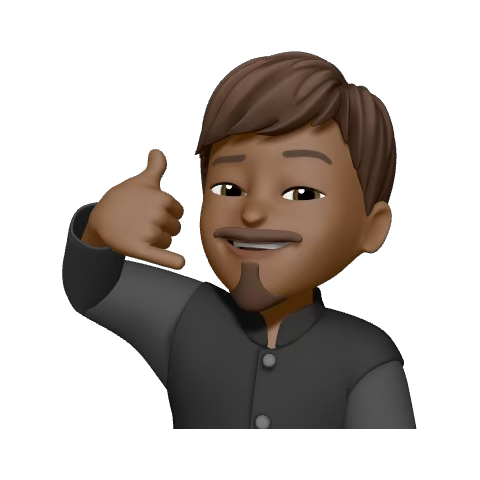
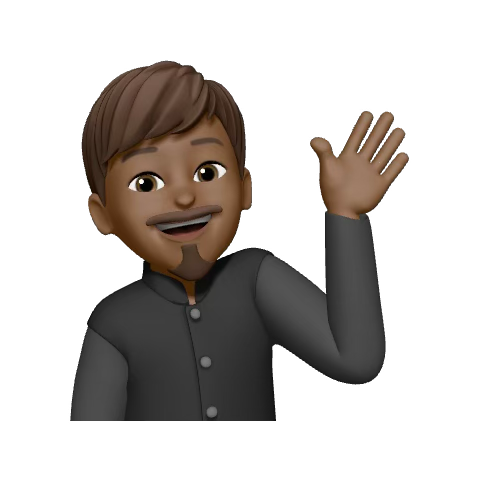
Team Page Update
- added deep and bhavi team page pictures

diff --git a/resdex/src/pages/Team.js b/resdex/src/pages/Team.js
@@ -9,6 +9,8 @@ import kush from "../images/kushceo.png";
 import fenil from "../images/fenilceo.png";
 import jay from "../images/jayceo.png";
 import darsh from "../images/darshceo.png";
+import bhavi from "../images/bhaviceo.png";
+import deep from "../images/deepceo.png";
 
 const Team = () => {
   // Use the custom animation hook
@@ -46,7 +48,7 @@ const Team = () => {
           bio: "Deep specializes in medical outsourcing with extensive knowledge in healthcare systems and patient care coordination.",
           linkedin: "https://www.linkedin.com/in/deepptll/",
           email: "dpptl16@gmail.com",
-          image: Empty,
+          image: deep,
         },
         {
           name: "Bhavi Singh",
@@ -54,7 +56,7 @@ const Team = () => {
           bio: "Bhavi has a strong background in medical administration and patient service coordination.",
           linkedin: "https://www.linkedin.com/in/bhavendra-singh-75bbb129b/",
           email: "bhavendrasingh08.com",
-          image: Empty,
+          image: bhavi,
         },
       ],
     },
